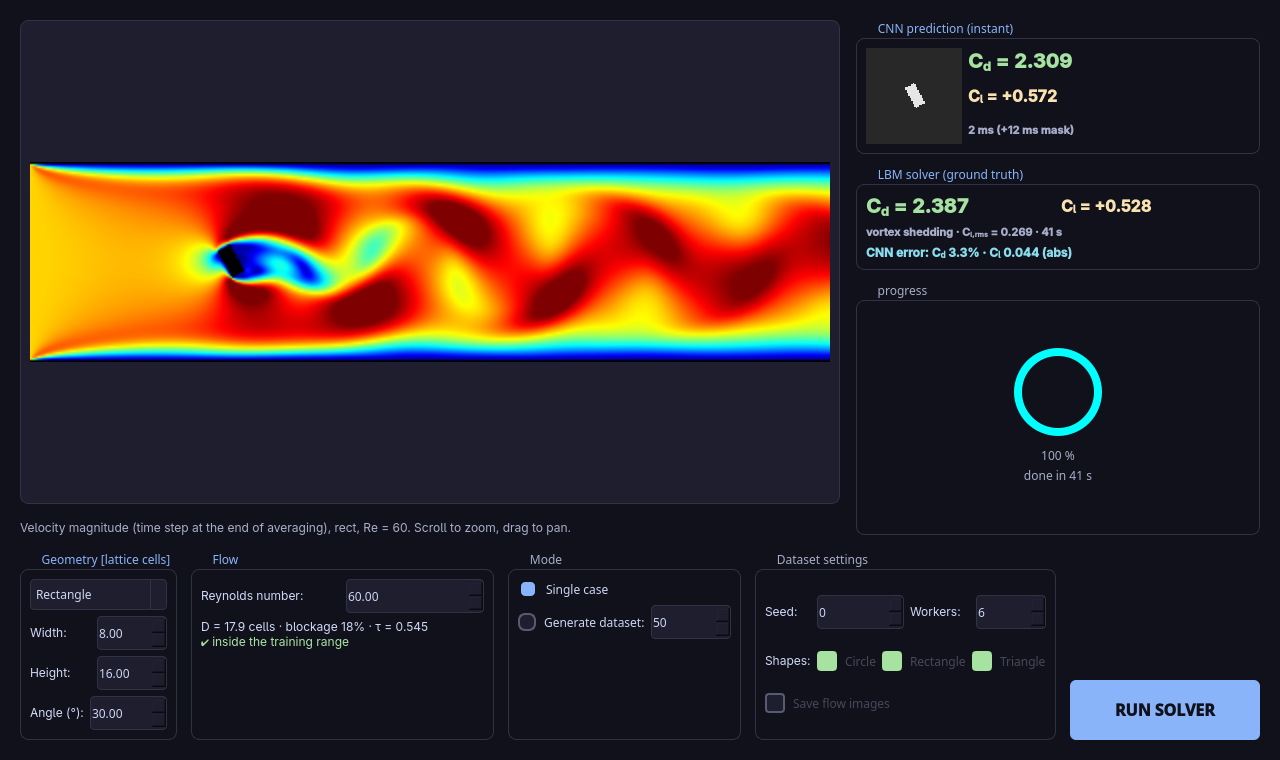
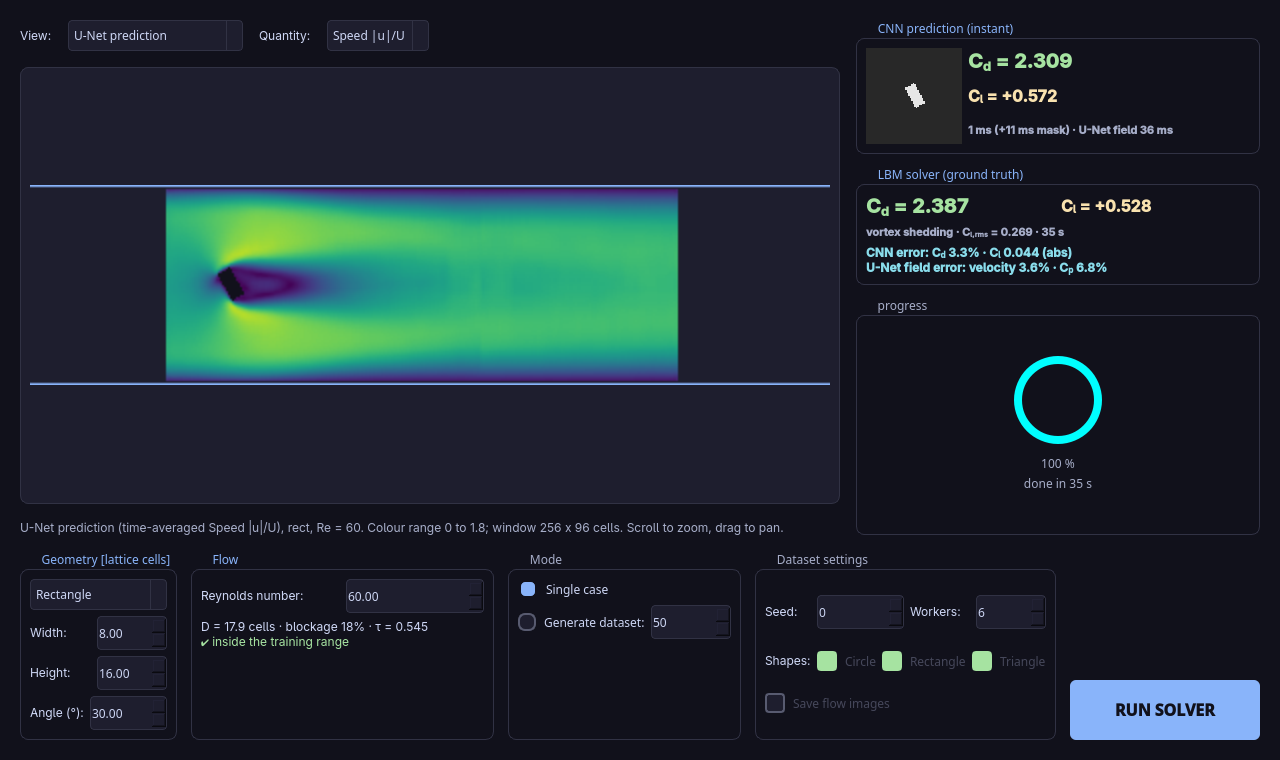
M8 results (3 seeds) and M9 docs: README v2, field figures, screenshots, model notes

diff --git a/README.md b/README.md
@@ -1,6 +1,6 @@
-# CFD-Drag-2D: Lattice Boltzmann Solver, Drag Dataset and CNN Surrogate
+# CFD-Drag-2D: Lattice Boltzmann Solver, Flow Dataset and Neural Surrogates
 
-![C++](https://img.shields.io/badge/C++-17-blue) ![CUDA](https://img.shields.io/badge/CUDA-batch%20solver-green) ![Python](https://img.shields.io/badge/Python-3.10+-yellow) ![PyTorch](https://img.shields.io/badge/PyTorch-CNN-orange) ![License](https://img.shields.io/badge/License-MIT-green)
+![C++](https://img.shields.io/badge/C++-17-blue) ![CUDA](https://img.shields.io/badge/CUDA-batch%20solver-green) ![Python](https://img.shields.io/badge/Python-3.10+-yellow) ![PyTorch](https://img.shields.io/badge/PyTorch-CNN%20%2B%20U--Net-orange) ![License](https://img.shields.io/badge/License-MIT-green)
 
 ## Overview
 A complete, reproducible pipeline from physics to machine learning:
@@ -12,13 +12,16 @@ A complete, reproducible pipeline from physics to machine learning:
 3. **Surrogate:** a small CNN that predicts drag (Cd) and lift (Cl) from the obstacle shape and Re
    in milliseconds, with a 2.3 % mean Cd error, beating a gradient-boosting baseline that is
    given the exact shape parameters.
-4. **Flow Studio:** a desktop app to design an obstacle, see the CNN prediction instantly, and
-   check it against the full simulation.
+4. **Flow-field surrogate (v2):** a U-Net that predicts the whole time-averaged velocity and
+   pressure field around the obstacle, trained on the same 5000 cases with stored mean fields.
+5. **Flow Studio:** a desktop app to design an obstacle, see the CNN and U-Net predictions
+   instantly, and check them against the full simulation.
 
 ![Flow Studio](docs/gui.png)
 
-*Flow Studio: the CNN predicts Cd = 2.31 in about 15 ms; the solver gives 2.39 after 42 s (3.3 % error).
-Vortex shedding behind a rectangle at Re = 60.*
+*Flow Studio, rotated rectangle at Re = 60 (vortex shedding): the CNN predicts Cd = 2.31 and the U-Net
+the whole time-averaged flow field (shown) in about 50 ms together; the solver gives Cd = 2.39 after 35 s.
+U-Net field error for this case: velocity 3.6 %, Cp 6.8 %.*
 
 ## Features
 * **CPU and CUDA engines:** both share one per-node update (`cfd_engine/lbm_common.hpp`). The CUDA
@@ -29,9 +32,11 @@ Vortex shedding behind a rectangle at Re = 60.*
   identical results for any worker count or GPU batch size, dataset checks and a CPU spot check.
 * **CNN surrogate:** PyTorch, trained on Kaggle GPUs from a notebook that clones this repository;
   evaluated against mean and gradient-boosting baselines over 3 training seeds.
-* **Flow Studio (PyQt6):** live CNN prediction with input validation, full solver run with flow
-  field, and dataset generation from the GUI.
-* **Tested:** 49 tests, including physics validation, determinism and GPU-vs-CPU agreement.
+* **U-Net field surrogate:** time-averaged ux, uy and Cp on a 256x96 window around the obstacle,
+  compared with mean-field and nearest-neighbour baselines over 3 training seeds.
+* **Flow Studio (PyQt6):** live CNN and U-Net predictions with input validation, full solver run,
+  side-by-side field views (U-Net, solver, difference), and dataset generation from the GUI.
+* **Tested:** 58 tests, including physics validation, determinism and GPU-vs-CPU agreement.
 
 ## Solver
 * D2Q9 lattice Boltzmann with TRT collision, half-way bounce-back walls, Zou-He velocity inlet
@@ -44,7 +49,7 @@ Vortex shedding behind a rectangle at Re = 60.*
   Schäfer–Turek 2D-1 cylinder benchmark (Cd = 5.58 at Re = 20).
 
 ## Status
-Complete (milestones M0 to M6). See `SPEC.md` for the specification and `DECISIONS.md` for every
+Complete (milestones M0 to M9; v1.0 drag surrogate, v2.0 flow-field surrogate). See `SPEC.md` for the specification and `DECISIONS.md` for every
 design choice and result.
 
 ## Prerequisites
@@ -83,6 +88,12 @@ python scripts/check_dataset.py --data dataset
 uv pip install torch --index-url https://download.pytorch.org/whl/cpu && uv pip install -e ".[ml]"
 python scripts/train.py --data dataset --out runs/v1        # ~15 s/epoch on CPU, ~1 s on a T4
 python scripts/evaluate.py --data dataset --run runs/v1     # metrics.json, predictions.csv, parity.png
+
+# 9. Flow-field U-Net (needs step 8): download the trained weights for Flow Studio (31 MB),
+#    or train and evaluate on the v2 field dataset (GPU recommended)
+python scripts/fetch_field_model.py                         # -> models/field_unet_v1.pt
+python scripts/train_fields.py --data cfd_drag_2d_fields --out runs/fields --device cuda
+python scripts/evaluate_fields.py --data cfd_drag_2d_fields --run runs/fields
 ```
 
 All tunable defaults (domain size, steps, sampling ranges) live in `cfd_drag/params.py`.
@@ -92,6 +103,7 @@ A dataset directory contains:
 1. `data.csv`: one row per case with the inputs (`shape`, `size1`, `size2`, `angle`, `re`, frontal height `D`, `blockage`) and the targets (`Cd`, `Cl`, `Cl_rms`, `pressure_loss`), plus `status` (steady/periodic) and `ok`.
 2. `masks.npy`: `(N, 64, 64)` uint8 obstacle masks cropped around the obstacle, aligned with `data.csv` rows. These are the CNN inputs.
 3. `images/`: optional velocity-magnitude PNGs, for visualisation only.
+4. `fields.npy` (field datasets only, `--fields`): `(N, 3, 96, 256)` float16 time-averaged `ux / U`, `uy / U` and `Cp` in a window around the obstacle.
 
 Load it with `cfd_drag.dataset.load("dataset")`. `example_data/` holds 24 cases.
 
@@ -126,6 +138,12 @@ from cfd_drag.dataset import load
 df, masks = load("cfd_drag_2d")   # data.csv as a DataFrame, masks as (5000, 64, 64) uint8
 ```
 
+**Field dataset (v2):** `cfd_drag_2d_fields_v2.zip` (0.5 GB; 0.76 GB unpacked) on the
+[v2.0 release](https://github.com/PradeepkrishnaGM/CFD-Drag-2D/releases/tag/v2.0) holds the same
+files plus `fields.npy`, `(5000, 3, 96, 256)` float16 (`ux / U`, `uy / U`, `Cp`), aligned with
+`data.csv` (zeros for failed rows; there are none). Load it with
+`cfd_drag.surrogate.fields.load_field_dataset("cfd_drag_2d_fields")`.
+
 ## Surrogate model
 A small CNN (4 conv blocks, 0.26 M parameters) predicts Cd and Cl from the 64x64 obstacle mask;
 log(Re) joins in the dense head. It is trained on 3500 cases of the dataset above, the best epoch is
@@ -153,6 +171,48 @@ Limits:
 - Cl of circles (true value about 0): CNN MAE 0.018 against 0.005 for gradient boosting, which is
   told the shape is a circle; a pixelated circle is not perfectly symmetric.
 
+## Flow-field surrogate (v2)
+The v2 dataset stores, for the same 5000 cases, the **time-averaged** velocity and pressure
+(`ux / U`, `uy / U` and `Cp`) on a 256 x 96 cell window from 32 cells upstream of the obstacle centre
+across the full channel height (averaged over the same steps as Cd and Cl). `notebooks/m7_generate_fields.ipynb`
+generates it on Kaggle; Cd, Cl and the masks are identical to v1, and the checks add no-slip on
+obstacle cells and constant volume flux through every window column (max deviation 1.0 %).
+
+A U-Net (4 levels, 7.8 M parameters) maps three input channels, the obstacle mask, its signed
+distance field and log(Re), to the three output fields. It is trained on the same 3500 / 750 / 750
+split as the CNN (100 epochs, about 26 min on a T4, `notebooks/m8_train_fields.ipynb`).
+Errors are relative L2 norms over fluid cells on the 750 test cases (lower is better):
+
+Test set, U-Net as mean ± standard deviation over 3 training seeds (same split):
+
+| Model | Velocity rel. L2 | Cp rel. L2 | Velocity, wake | Cp, wake | Velocity 95th pct |
+|---|---|---|---|---|---|
+| Mean training field | 10.4 % | 45.5 % | 9.9 % | 56.8 % | 16.0 % |
+| Nearest neighbour in shape parameters | 2.8 % | 12.5 % | 2.6 % | 15.4 % | 6.9 % |
+| **U-Net on mask + signed distance + Re** | **1.93 ± 0.02 %** | **5.05 ± 0.08 %** | **2.02 ± 0.02 %** | **8.4 ± 0.2 %** | **4.6 %** |
+
+"Wake" is the part of the window downstream of the obstacle centre.
+
+The nearest-neighbour baseline copies the field of the training case with the closest shape
+parameters and Re. The U-Net more than halves its Cp error and is better for rectangles and
+triangles and in both flow regimes. One exception: circles have only two parameters (size and Re),
+so a near-identical training case almost always exists, and nearest neighbour has the lower
+velocity error there (0.7 % against 0.9 %; Cp 3.2 % against 2.8 %).
+U-Net velocity error by group: circles 0.9 %, rectangles 2.2 %, triangles 2.7 %; steady 1.3 %,
+vortex shedding 2.7 %.
+
+![U-Net vs solver](docs/fields.png)
+
+*Test cases at the 10th, 50th and 90th percentile of the U-Net velocity error: solver, U-Net, speed
+error and Cp error.*
+
+Limits:
+- Vortex shedding cases have about twice the error of steady ones; the U-Net predicts the mean flow,
+  not the unsteady shedding.
+- The largest errors are in the far wake, where faint block patterns at the U-Net's coarsest scale
+  (16 cells) appear.
+- Same channel setup, shape families and Re range as the CNN.
+
 ## Flow Studio
 `python gui/app.py`
 * **Geometry and flow:** shape, sizes and angle in lattice cells, and the Reynolds number. The
@@ -160,11 +220,20 @@ Limits:
   rejects (unstable τ, blockage above 25 %) or that lie outside the CNN's training range.
 * **CNN prediction (instant):** on every change the app builds the exact 64x64 mask the CNN was
   trained on (one solver step, ~20 ms) and predicts Cd and Cl with `models/surrogate_v1.pt`.
-* **Run solver:** the full simulation with the dataset settings (about 40 s on a 6-core desktop CPU), the
-  velocity field, Cd, Cl, Cl_rms, flow regime and the CNN's error against the solver.
+* **U-Net field (instant):** the predicted time-averaged speed, ux, uy or Cp around the obstacle
+  (about 35 ms on the CPU, `models/field_unet_v1.pt`, see step 9 of the Quick Start).
+* **Run solver:** the full simulation with the dataset settings (about 40 s on a 6-core desktop CPU),
+  Cd, Cl, Cl_rms, flow regime, the CNN's error and the U-Net field error against the solver.
+* **Views:** shape preview, U-Net prediction, solver mean field, and the difference U-Net minus solver,
+  each with fixed colour ranges so views are comparable.
 * **Generate dataset:** the same pipeline as `scripts/generate.py` (seed, size, workers, shapes),
   resumable by choosing the same folder again.
-* `python gui/app.py --screenshot docs/gui.png` runs a demo case and saves the screenshot above.
+* `python gui/app.py --screenshot docs/gui.png [--view "Solver result"]` runs a demo case and saves a screenshot.
+
+![Difference view](docs/gui_difference.png)
+
+*Difference view (U-Net minus solver, speed): the error sits in the far wake, where the mean of the
+shedding vortices is hardest to predict.*
 
 ![Parity plot](docs/parity.png)
 
@@ -174,10 +243,12 @@ Limits:
 ```
 cfd_engine/      C++ and CUDA lattice Boltzmann solvers (shared per-node update)
 cfd_drag/        Python package: params, geometry, sampling, dataset pipeline, checks,
-                 surrogate (data, model, training, metrics), single-case prediction
-scripts/         generate.py, check_dataset.py, train.py, evaluate.py, compare_backends.py
-notebooks/       Kaggle notebooks: CUDA check (M3), dataset generation (M4), training (M5)
+                 surrogates (CNN and U-Net: data, models, training, metrics), single-case prediction
+scripts/         generate.py, check_dataset.py, train.py, evaluate.py, compare_backends.py,
+                 train_fields.py, evaluate_fields.py, fetch_field_model.py
+notebooks/       Kaggle notebooks: CUDA check (M3), dataset generation (M4), training (M5),
+                 field dataset (M7), U-Net training (M8)
 gui/app.py       Flow Studio
-models/          trained surrogate (1 MB)
+models/          trained CNN (1 MB); the U-Net (31 MB) is downloaded by fetch_field_model.py
 tests/           pytest suite (`make test` quick, `make test-all` with slow physics validation)
 ```

diff --git a/DECISIONS.md b/DECISIONS.md
@@ -56,3 +56,4 @@
 | 2026-11-18 | M9: Flow Studio views (shape preview, U-Net, solver mean field, difference) with fixed colour ranges; the solver now runs with --mean-fields in the GUI; U-Net CPU inference ~35-40 ms | Solver view shows the same quantity the U-Net predicts |
 | 2026-11-18 | M9: U-Net weights (31 MB) are a release asset fetched by scripts/fetch_field_model.py, not tracked in git; the 1 MB CNN stays in git | Keep the repository small (owner rule: large outputs out of git) |
 | 2026-11-18 | M7 result (Kaggle T4, ~67 min, commit 1c4f8eb): 5000/5000 ok; Cd, Cl, status and masks identical to v1; flux deviation median 0.42 %, max 1.02 %; no-slip and failed-row checks pass; 8-case CPU spot check matches | Field dataset accepted (dataset/fields_v1, gitignored) |
+| 2026-11-18 | M8 result (Kaggle T4, commit 59eb5e1, ~26 min per seed, 3 seeds): test velocity rel. L2 1.93 ± 0.02 %, Cp 5.05 ± 0.08 %, wake Cp 8.4 %; nearest neighbour 2.8 % / 12.5 %, mean field 10.4 % / 45.5 %; passes on all seeds. Circles: nearest neighbour has lower velocity error (0.66 % vs 0.94 %) | U-Net accepted; seed-0 model (best epoch 92) shipped as models/field_unet_v1.pt (release asset) |

diff --git a/models/README.md b/models/README.md
@@ -4,3 +4,9 @@
 Kaggle (Tesla T4) from commit 38ce07f on dataset v1 (5000 cases, seed 0). Test set: Cd MAE 0.049
 (2.2 % mean relative error), Cl MAE 0.064. Load with `cfd_drag.predict.Surrogate`
 or `cfd_drag.surrogate.train.load_model`. Retrain with `scripts/train.py`.
+
+`field_unet_v1.pt` (31 MB, not in git): U-Net flow-field surrogate from M8, training seed 0, best
+epoch 92, trained on Kaggle (Tesla T4) from commit 59eb5e1 on the v2 field dataset. Test set:
+velocity relative L2 error 1.93 %, Cp 5.08 %. Download it with `scripts/fetch_field_model.py`
+(GitHub release v2.0); load with `cfd_drag.predict.FieldSurrogate` or
+`cfd_drag.surrogate.field_train.load_field_model`. Retrain with `scripts/train_fields.py`.
